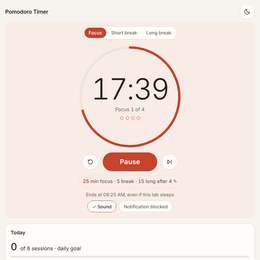
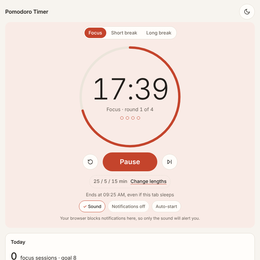
Pomodoro Timer: rebuilt on a wall-clock core people can trust
What it does: a focus timer for the Pomodoro method (25 min focus, 5 min break, a long break
after every 4), with any lengths, an optional task list and today's count.

What changed for the person using it:
- The countdown is endsAt - now, never a sum of ticks, and the state is saved, so a background tab,
  a locked phone or a reload shows the true time. Auto-started phases that ended while the phone slept
  are replayed at their real end times.
- Before starting it says when the session would end; while running, "Ends at 09:55".
- Lengths are typed the way people write them: 45 mins, 7,5, 1:30, 1h 15. Bad input is flagged under
  the field and the timer keeps the last good length (the old page silently used 25, truncated 2.5 to 2
  and accepted -5 and 100000).
- A focus session only counts when it runs out: restarting a finished timer no longer counts it twice,
  and Skip never counts. Switching phase while running no longer keeps the timer running.
- The tab title shows the countdown; a bell from Web Audio and an optional notification at the end
  (permission asked on the first Start, not on page load); the screen stays awake while running.
- Lengths can be shared as ?focus=50&short=10; the old saved settings, tasks, dark mode, session count
  and goal are all read back.

Why it looks this way: the countdown is the page, in light tabular Inter digits that do not jitter as
[…]

diff --git a/tools/pomodoro_timer.html b/tools/pomodoro_timer.html
@@ -62,29 +62,29 @@ h1{font-size:1.05rem;font-weight:600;margin:0;letter-spacing:-.01em}
 .icon{width:48px;height:48px;border-radius:50%;border:1px solid var(--line);background:var(--card);color:var(--ink);cursor:pointer;display:grid;place-items:center}
 .icon svg{width:20px;height:20px}
 .icon[disabled]{visibility:hidden}
-.trust{font-size:.88rem;color:var(--soft);margin:10px 0 0;min-height:1.4em}.chips{display:flex;justify-content:center;gap:8px;margin-top:8px}.chip{height:36px;padding:0 14px;border-radius:999px;border:1px solid var(--line);background:var(--card);color:var(--soft);font:500 .88rem var(--ff);cursor:pointer}.chip[aria-pressed=true]{color:var(--ink);border-color:var(--ph)}.chip[aria-pressed=true]::before{content:'✓ ';color:var(--ph)}.trust button{background:none;border:0;color:inherit;font:inherit;text-decoration:underline;cursor:pointer;padding:4px 2px}
+.trust{font-size:.88rem;color:var(--soft);margin:10px 0 0;min-height:1.4em}.chips{display:flex;flex-wrap:wrap;justify-content:center;gap:8px;margin-top:8px}.chip{height:36px;padding:0 11px;border-radius:999px;border:1px solid var(--line);background:var(--card);color:var(--soft);font:500 .84rem var(--ff);cursor:pointer}.chip[aria-pressed=true]{color:var(--ink);border-color:var(--ph)}.chip[aria-pressed=true]::before{content:'✓ ';color:var(--ph)}.chip.blocked{border-style:dashed}.trust button{background:none;border:0;color:inherit;font:inherit;text-decoration:underline;cursor:pointer;padding:4px 2px}
 /* plan fields */
-.lens{margin-top:12px}.lens summary{font-weight:500;font-size:.92rem;color:var(--soft);display:inline-block;padding:8px 12px;border-radius:999px;border:1px dashed var(--line);list-style:none}.lens summary::-webkit-details-marker{display:none}.lens summary b{color:var(--ph);font-weight:600}.plan{display:grid;grid-template-columns:repeat(4,minmax(0,1fr));gap:8px;margin-top:14px;text-align:left}
+.lens{margin-top:12px}.lens summary{font-weight:500;font-size:.92rem;color:var(--soft);display:inline-block;padding:8px 12px;border-radius:999px;border:1px dashed var(--line);list-style:none}.lens summary::-webkit-details-marker{display:none}.lens summary u{color:var(--ink);text-decoration-color:var(--ph);text-underline-offset:3px;margin-left:6px;white-space:nowrap}.lens summary span{white-space:nowrap}.plan{display:grid;grid-template-columns:repeat(2,minmax(0,1fr));gap:8px;margin-top:14px;text-align:left}
 .f label{display:block;font-size:.75rem;color:var(--soft);margin-bottom:3px;white-space:nowrap;overflow:hidden;text-overflow:ellipsis}
 .f input{width:100%;height:42px;text-overflow:ellipsis;border:1px solid var(--line);border-radius:10px;background:var(--card);color:var(--ink);font:500 1.05rem/1 var(--ff);padding:0 8px;text-align:center}
-.f input[aria-invalid=true]{border-color:var(--err);box-shadow:0 0 0 1px var(--err)}
-.planmsg{grid-column:1/-1;min-height:1.1em;font-size:.82rem;color:var(--soft);margin:0}
+.f input[aria-invalid=true]{text-align:left;border-color:var(--err);box-shadow:0 0 0 1px var(--err)}
+.planmsg:empty{display:none}.planmsg{grid-column:1/-1;font-size:.82rem;color:var(--soft);margin:0}
 .planmsg.err{color:var(--err)}
 :focus-visible{outline:2px solid var(--ph);outline-offset:2px}
 /* side cards */
 h2{font-size:.95rem;font-weight:600;margin:0 0 10px;display:flex;justify-content:space-between;align-items:baseline;gap:8px}
 h2 small{font-weight:400;color:var(--soft);font-size:.85rem}
-.today{display:flex;align-items:baseline;gap:10px;margin-bottom:6px}
+.today{display:flex;flex-wrap:wrap;align-items:baseline;gap:4px 10px;margin-bottom:6px}
 .today .n{font-size:1.9rem;font-weight:500}
 .bar{height:6px;background:var(--ring);border-radius:3px;overflow:hidden}
 .bar i{display:block;height:100%;background:var(--focus);width:0;transition:width .4s}
-.addrow{display:flex;gap:8px}
+.addrow{display:flex;flex-wrap:wrap;gap:4px 8px}.addlab{flex:1 1 100%;display:flex;font-size:.75rem;color:var(--soft)}.addlab span:first-child{flex:1}.addlab span:last-child{width:126px}
 .addrow input{height:44px;border:1px solid var(--line);border-radius:10px;background:var(--bg);color:var(--ink);font:inherit;padding:0 10px}
 .addrow #taskText{flex:1;min-width:0}
 .addrow #taskEst{width:58px;text-align:center}
 .addrow button,.btn{height:44px;border-radius:10px;border:1px solid var(--line);background:var(--card);color:var(--ink);font:500 .92rem var(--ff);padding:0 14px;cursor:pointer}
 ul.tasks{list-style:none;margin:10px 0 0;padding:0}
-.tasks li{display:flex;align-items:center;gap:8px;padding:6px 0;border-top:1px solid var(--line)}
+.tasks li{display:flex;align-items:center;gap:10px;padding:6px 0;border-top:1px solid var(--line)}
 .tasks li:first-child{border-top:0}
 .tasks li.cur{box-shadow:inset 3px 0 0 var(--focus);padding-left:8px;margin-left:-8px}
 .tasks input[type=checkbox]{width:20px;height:20px;accent-color:var(--focus);flex:none;margin:0}
@@ -92,7 +92,7 @@ ul.tasks{list-style:none;margin:10px 0 0;padding:0}
 .tasks li.done .t{text-decoration:line-through;color:var(--soft)}
 .tasks .cnt{color:var(--soft);font-size:.88rem;white-space:nowrap}
 .tasks li.cur .cnt{color:var(--focus);font-weight:600}
-.tasks .mini{width:34px;height:34px;border-radius:8px;border:1px solid transparent;background:none;color:var(--soft);cursor:pointer;font:inherit;flex:none}
+.tasks .mini{width:40px;height:40px;border-radius:8px;border:1px solid transparent;background:none;color:var(--soft);cursor:pointer;font:inherit;flex:none}
 .tasks .mini:hover{border-color:var(--line);color:var(--ink)}
 .tasks .now{font-size:.72rem;color:var(--focus);font-weight:600;text-transform:uppercase;letter-spacing:.04em;margin-right:4px}
 .links{display:flex;gap:14px;margin-top:8px;font-size:.85rem}
@@ -114,6 +114,7 @@ kbd{font:inherit;border:1px solid var(--line);border-bottom-width:2px;border-rad
 footer{text-align:center;font-size:.8rem;color:var(--soft);margin-top:24px}footer a{color:inherit}
 #toast button{background:none;border:0;color:inherit;font:600 .92rem var(--ff);text-decoration:underline;cursor:pointer;padding:4px}
 .sr{position:absolute;width:1px;height:1px;overflow:hidden;clip:rect(0 0 0 0);white-space:nowrap}
+@media (max-width:520px){.tasks li{flex-wrap:wrap;row-gap:0}.tasks .t{flex:1 1 calc(100% - 40px)}.tasks .cnt{margin-left:30px;margin-right:auto}.tasks .mini{width:44px;height:36px}}
 @media (max-width:380px){.tabs button{padding:9px 9px;font-size:.84rem}.plan{gap:6px}}
 @media (prefers-reduced-motion:reduce){*{transition:none!important;animation:none!important}}
 </style>
@@ -148,11 +149,12 @@ footer{text-align:center;font-size:.8rem;color:var(--soft);margin-top:24px}foote
     <div class="f"><label for="len-focus">Focus (min)</label><input id="len-focus" data-k="focus" inputmode="decimal" autocomplete="off" aria-describedby="planmsg" class="num"></div>
     <div class="f"><label for="len-short">Break (min)</label><input id="len-short" data-k="short" inputmode="decimal" autocomplete="off" aria-describedby="planmsg" class="num"></div>
     <div class="f"><label for="len-long">Long (min)</label><input id="len-long" data-k="long" inputmode="decimal" autocomplete="off" aria-describedby="planmsg" class="num"></div>
-    <div class="f"><label for="len-every" title="Long break after this many focus sessions">Long after</label><input id="len-every" data-k="every" inputmode="numeric" autocomplete="off" aria-describedby="planmsg" class="num"></div>
+    <div class="f"><label for="len-every" title="Long break after this many focus sessions">Long after (sessions)</label><input id="len-every" data-k="every" inputmode="numeric" autocomplete="off" aria-describedby="planmsg" class="num"></div>
     <p class="planmsg" id="planmsg"></p>
   </div></details>
   <p class="trust num" id="ends"></p>
-  <div class="chips"><button type="button" class="chip" id="soundBtn" aria-pressed="true">Sound</button><button type="button" class="chip" id="notifyBtn" aria-pressed="false">Notification</button></div>
+  <div class="chips"><button type="button" class="chip" id="soundBtn" aria-pressed="true">Sound</button><button type="button" class="chip" id="notifyBtn" aria-pressed="false">Notification</button><button type="button" class="chip" id="autoBtn" aria-pressed="false" title="Start the next phase by itself">Auto-start</button></div>
+  <p class="trust" id="chipHint" style="min-height:0;font-size:.8rem"></p>
   <div id="live" class="sr" aria-live="polite"></div>
 </section>
 <div class="grid" style="margin:0;grid-template-columns:minmax(0,1fr)">
@@ -164,8 +166,9 @@ footer{text-align:center;font-size:.8rem;color:var(--soft);margin-top:24px}foote
 <section class="card" aria-labelledby="h-tasks">
   <h2 id="h-tasks">Tasks <small id="taskstats"></small></h2>
   <form class="addrow" id="addform" autocomplete="off">
+    <div class="addlab" aria-hidden="true"><span>New task</span><span>Sessions</span></div>
     <label class="sr" for="taskText">New task</label><input id="taskText" placeholder="Add a task" maxlength="500" enterkeyhint="done">
-    <label class="sr" for="taskEst">Sessions it should take</label><input id="taskEst" placeholder="🍅" inputmode="numeric" value="1" title="Estimated sessions" class="num">
+    <label class="sr" for="taskEst">Sessions it should take</label><input id="taskEst" inputmode="numeric" value="1" title="Estimated sessions" class="num">
     <button type="submit">Add</button>
   </form>
   <p class="planmsg err" id="taskmsg" role="alert"></p>
@@ -517,7 +520,7 @@ footer{text-align:center;font-size:.8rem;color:var(--soft);margin-top:24px}foote
       for (var i = 0; i < c.of; i++) { var d = document.createElement('i'); if (i < c.filled) d.className = 'on' + (i === c.filled - 1 && c.filled > lastFilled && lastFilled >= 0 ? ' pop' : ''); dots.appendChild(d); }
       lastFilled = c.filled;
     }
-    var label = st.phase === 'focus' ? 'Focus <span class="num">' + c.slot + ' of ' + c.of + '</span>' : P.NAMES[st.phase] + (c.filled ? ' · <span class="num">' + c.filled + ' of ' + c.of + ' done</span>' : '');
+    var label = st.phase === 'focus' ? 'Focus · <span class="num">round ' + c.slot + ' of ' + c.of + '</span>' : P.NAMES[st.phase] + (c.filled ? ' · <span class="num">' + c.filled + ' of ' + c.of + ' rounds done</span>' : '');
     if (st.status === 'paused') label = '<b>Paused</b> · ' + label;
     if ($('status').innerHTML !== label) $('status').innerHTML = label;
     $('go').textContent = st.status === 'running' ? 'Pause' : st.status === 'paused' ? 'Resume' : 'Start';
@@ -529,15 +532,20 @@ footer{text-align:center;font-size:.8rem;color:var(--soft);margin-top:24px}foote
     if ($('ends').textContent !== e) $('ends').textContent = e;
     $('soundBtn').setAttribute('aria-pressed', String(cfg.sound));
     var blocked = !('Notification' in window) || Notification.permission === 'denied';
-    $('notifyBtn').setAttribute('aria-pressed', String(cfg.notify && !blocked));
-    var nl = blocked ? 'Notification blocked' : 'Notification'; if ($('notifyBtn').textContent !== nl) $('notifyBtn').textContent = nl;
+    var granted = 'Notification' in window && Notification.permission === 'granted';
+    $('notifyBtn').setAttribute('aria-pressed', String(cfg.notify && granted));
+    var nh = blocked && cfg.notify ? 'Your browser blocks notifications here, so only the sound will alert you.' : cfg.notify && !granted ? 'Your browser will ask to allow notifications when you press Start.' : '';
+    if ($('chipHint').textContent !== nh) $('chipHint').textContent = nh;
+    var nl = blocked ? 'Notifications off' : 'Notification'; if ($('notifyBtn').textContent !== nl) $('notifyBtn').textContent = nl;
+    $('notifyBtn').classList.toggle('blocked', blocked && cfg.notify);
+    $('autoBtn').setAttribute('aria-pressed', String(cfg.auto));
     document.documentElement.classList.toggle('paused', st.status === 'paused');
-    var ls = '<b>' + P.describe(cfg.focus) + '</b> min focus · ' + P.describe(cfg.short) + ' break · ' + P.describe(cfg.long) + ' long after ' + cfg.every + ' <span aria-hidden="true">✎</span>';
+    var ls = '<span>' + P.describe(cfg.focus) + ' / ' + P.describe(cfg.short) + ' / ' + P.describe(cfg.long) + ' min</span> <u>Change lengths</u>';
     if (lastLs !== ls) { $('lensSum').innerHTML = ls; lastLs = ls; }
   }
   function renderToday() {
     $('todayN').textContent = today.count;
-    $('todayOf').textContent = 'of ' + cfg.goal + ' sessions · daily goal';
+    $('todayOf').textContent = 'focus sessions · goal ' + cfg.goal;
     var m = Math.round(today.minutes);
     $('todayMin').textContent = m ? (m >= 60 ? Math.floor(m / 60) + ' h ' + (m % 60) + ' min' : m + ' min') + ' focused' : '';
     
@@ -553,7 +561,7 @@ footer{text-align:center;font-size:.8rem;color:var(--soft);margin-top:24px}foote
       cb.onchange = function () { t.completed = cb.checked; saveTasks(); renderTasks(); };
       var sp = document.createElement('span'); sp.className = 't';
       sp.appendChild(document.createTextNode(t.text));
-      var cnt = document.createElement('span'); cnt.className = 'cnt num'; cnt.textContent = t.usedPomodoros + '/' + t.estimatedPomodoros + ' 🍅';
+      var cnt = document.createElement('span'); cnt.className = 'cnt num'; cnt.textContent = t.usedPomodoros + ' of ' + t.estimatedPomodoros;
       cnt.title = t.usedPomodoros + ' of ' + t.estimatedPomodoros + ' estimated sessions';
       var plus = document.createElement('button'); plus.className = 'mini'; plus.textContent = '+1'; plus.setAttribute('aria-label', 'Add a session to ' + t.text);
       plus.onclick = function () { t.usedPomodoros++; saveTasks(); renderTasks(); };
@@ -610,7 +618,8 @@ footer{text-align:center;font-size:.8rem;color:var(--soft);margin-top:24px}foote
   }
   $('go').onclick = toggle;
   $('soundBtn').onclick = function () { cfg.sound = !cfg.sound; $('o-sound').checked = cfg.sound; saveCfg(); audio(); if (cfg.sound) chime('short'); render(); };
-  $('notifyBtn').onclick = function () { if (!('Notification' in window)) { toast('This browser cannot show notifications'); return; } if (Notification.permission === 'denied') { toast('Notifications are blocked for this site in your browser settings'); return; } cfg.notify = !cfg.notify; $('o-notify').checked = cfg.notify; saveCfg(); if (cfg.notify) askNotify(); notifyHint(); render(); };
+  $('autoBtn').onclick = function () { cfg.auto = !cfg.auto; $('o-auto').checked = cfg.auto; saveCfg(); render(); toast(cfg.auto ? 'Breaks and focus sessions will start by themselves' : 'Each phase waits for you to press Start'); };
+  $('notifyBtn').onclick = function () { if (!('Notification' in window)) { toast('This browser cannot show notifications'); return; } if (Notification.permission === 'denied') { toast('Your browser blocks notifications here. Allow them from the icon left of the address, then reload. The sound still plays.'); return; } cfg.notify = !cfg.notify; $('o-notify').checked = cfg.notify; saveCfg(); if (cfg.notify) askNotify(); notifyHint(); render(); };
   $('reset').onclick = function () { act(P.reset(st), 'Reset to ' + P.format(P.lengthMs(st.phase, cfg))); };
   $('skip').onclick = function () { act(P.skip(st, cfg), 'Skipped. ' + P.NAMES[P.skip(st, cfg).phase] + ' is next.'); };
   document.querySelectorAll('.tabs button').forEach(function (b) {
@@ -635,7 +644,7 @@ footer{text-align:center;font-size:.8rem;color:var(--soft);margin-top:24px}foote
     var k = fields.find(function (f) { return errs[f]; }), m = $('planmsg');
     var names = {focus: 'Focus', short: 'Break', long: 'Long break', every: 'Long after'};
     if (k) { m.textContent = names[k] + ': ' + errs[k] + '. Still using ' + fieldText(k) + (k === 'every' || /:/.test(fieldText(k)) ? '.' : ' min.'); m.className = 'planmsg err'; }
-    else { m.textContent = st.status !== 'idle' && fields.some(function (f) { return document.activeElement === $('len-' + f); }) ? 'This ' + P.NAMES[st.phase].toLowerCase() + ' keeps its length; changes apply from the next one.' : ''; m.className = 'planmsg'; }
+    else { m.textContent = st.status !== 'idle' ? 'This ' + P.NAMES[st.phase].toLowerCase() + ' keeps its length; changes apply from the next one.' : ''; m.className = 'planmsg'; }
   }
   fields.forEach(function (k) {
     var inp = $('len-' + k); inp.value = fieldText(k);
@@ -651,11 +660,12 @@ footer{text-align:center;font-size:.8rem;color:var(--soft);margin-top:24px}foote
 
   // ---- options
   function bindCheck(id, k, after) { var el = $(id); el.checked = cfg[k]; el.onchange = function () { cfg[k] = el.checked; saveCfg(); if (after) after(); }; }
-  bindCheck('o-sound', 'sound', render); bindCheck('o-auto', 'auto'); bindCheck('o-wake', 'wake', wake);
+  bindCheck('o-sound', 'sound', render); bindCheck('o-auto', 'auto', render); bindCheck('o-wake', 'wake', wake);
   bindCheck('o-notify', 'notify', function () { if (cfg.notify) askNotify(); notifyHint(); render(); });
   $('o-volume').value = cfg.volume; $('o-volume').oninput = function () { cfg.volume = +this.value; saveCfg(); };
   $('test').onclick = function () { chime('short'); };
   $('o-goal').value = cfg.goal;
+  $('todayOf').title = 'Daily goal: change it under More options';
   $('o-goal').oninput = function () { var r = P.parseCount(this.value, 1, 24); if (r.ok) { cfg.goal = r.value; saveCfg(); renderToday(); } };
   $('o-goal').onblur = function () { this.value = cfg.goal; };
   $('share').onclick = function () {
